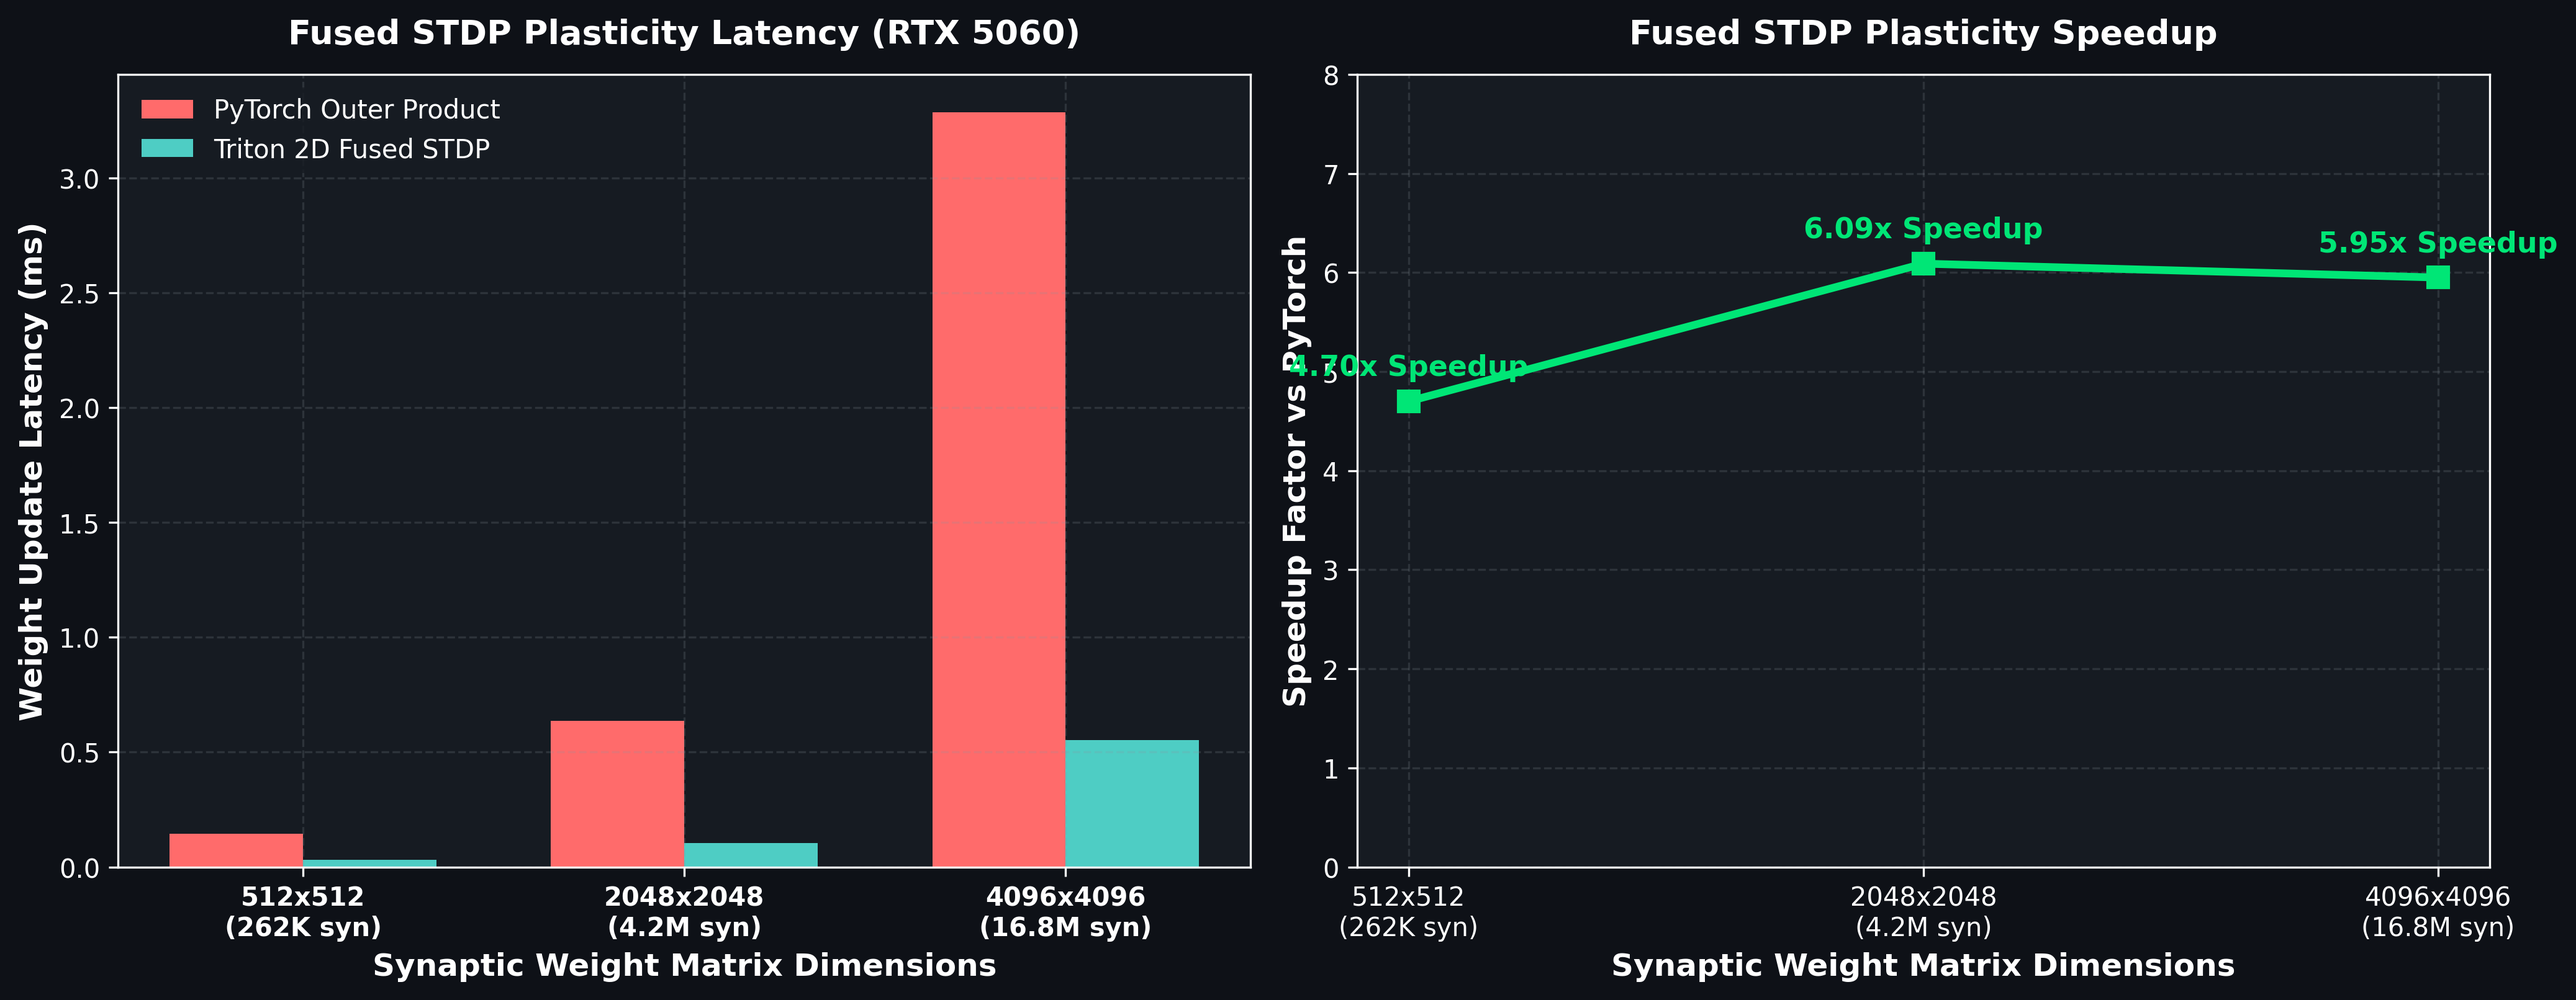
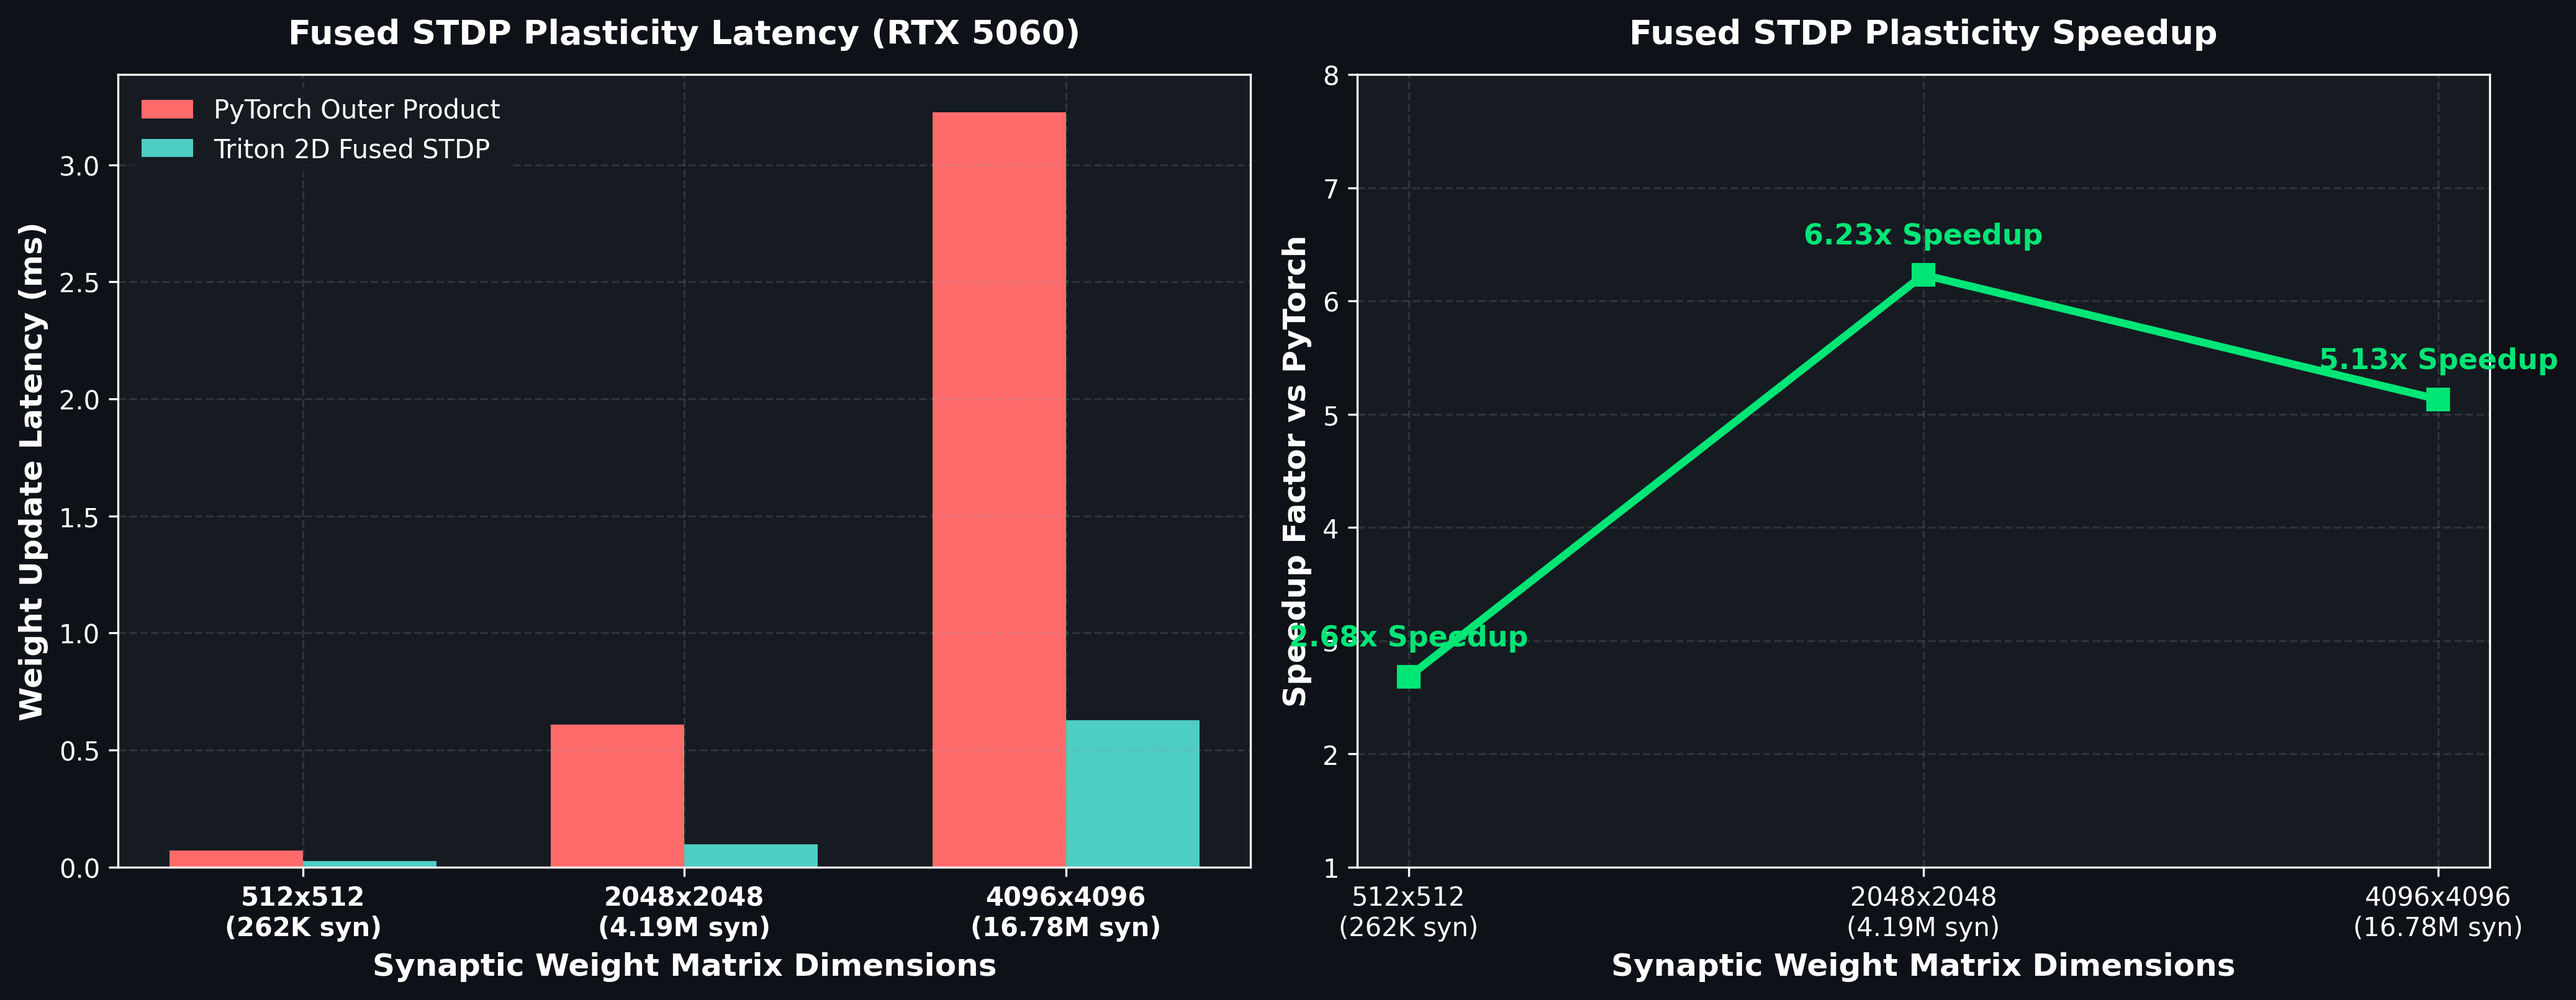
refactor: add CUDA warmup phase to benchmarks, fix LaTeX formatting, and improve plot layouts

diff --git a/benchmarks/benchmark_speed_memory.py b/benchmarks/benchmark_speed_memory.py
@@ -17,19 +17,20 @@ def benchmark_lif():
     sizes = [100000, 1000000, 10000000]
     device = torch.device("cuda")
 
+    results = []
     for N in sizes:
         v = torch.randn(N, device=device)
         x = torch.randn(N, device=device)
         alpha, v_th, v_reset = 0.85, 1.0, 0.0
 
-        # Warmup
-        for _ in range(10):
-            _ = fused_lif(v, x, alpha, v_th, v_reset)
-            _ = torch.where((alpha * v + x) >= v_th, v_reset, alpha * v + x)
-
+        # --- PyTorch Eager Warmup (50 iterations) ---
+        for _ in range(50):
+            v_temp = alpha * v + x
+            s = (v_temp >= v_th).float()
+            v_next = torch.where(s > 0, v_reset, v_temp)
         torch.cuda.synchronize()
 
-        # PyTorch Eager Timing
+        # PyTorch Eager Timing (100 iterations)
         t0 = time.perf_counter()
         for _ in range(100):
             v_temp = alpha * v + x
@@ -38,7 +39,12 @@ def benchmark_lif():
         torch.cuda.synchronize()
         t_pytorch = (time.perf_counter() - t0) * 10.0 # ms per call
 
-        # Triton Fused Timing
+        # --- Triton Fused Warmup (50 iterations) ---
+        for _ in range(50):
+            _ = fused_lif(v, x, alpha, v_th, v_reset)
+        torch.cuda.synchronize()
+
+        # Triton Fused Timing (100 iterations)
         t0 = time.perf_counter()
         for _ in range(100):
             _ = fused_lif(v, x, alpha, v_th, v_reset)
@@ -46,7 +52,9 @@ def benchmark_lif():
         t_triton = (time.perf_counter() - t0) * 10.0 # ms per call
 
         speedup = t_pytorch / t_triton
+        results.append((N, t_pytorch, t_triton, speedup))
         print(f"N = {N:<21,d} | {t_pytorch:<20.4f} | {t_triton:<20.4f} | {speedup:<9.2f}x")
+    return results
 
 
 def benchmark_stdp():
@@ -58,6 +66,7 @@ def benchmark_stdp():
     dims = [(512, 512), (2048, 2048), (4096, 4096)]
     device = torch.device("cuda")
 
+    results = []
     for N_post, N_pre in dims:
         W_triton = torch.rand(N_post, N_pre, device=device)
         W_py = W_triton.clone()
@@ -67,32 +76,41 @@ def benchmark_stdp():
         tr_pre = torch.rand(N_pre, device=device)
         tr_post = torch.rand(N_post, device=device)
 
-        # Warmup
-        for _ in range(5):
-            fused_stdp_update(W_triton, conn, s_pre, s_post, tr_pre, tr_post)
-
-        torch.cuda.synchronize()
-
-        # PyTorch Eager Outer Product Timing
-        t0 = time.perf_counter()
+        # --- PyTorch Outer Product Warmup (50 iterations) ---
         for _ in range(50):
             delta_ltp = 0.002 * torch.outer(s_post, tr_pre)
             delta_ltd = 0.001 * torch.outer(tr_post, s_pre)
             dW = (delta_ltp - delta_ltd) * conn
             W_py = torch.clamp(W_py + dW, min=0.0, max=2.0)
         torch.cuda.synchronize()
-        t_py = (time.perf_counter() - t0) * 20.0 # ms per call
 
-        # Triton Fused Timing
+        # PyTorch Timing (100 iterations)
         t0 = time.perf_counter()
+        for _ in range(100):
+            delta_ltp = 0.002 * torch.outer(s_post, tr_pre)
+            delta_ltd = 0.001 * torch.outer(tr_post, s_pre)
+            dW = (delta_ltp - delta_ltd) * conn
+            W_py = torch.clamp(W_py + dW, min=0.0, max=2.0)
+        torch.cuda.synchronize()
+        t_py = (time.perf_counter() - t0) * 10.0 # ms per call
+
+        # --- Triton Fused Warmup (50 iterations) ---
         for _ in range(50):
             fused_stdp_update(W_triton, conn, s_pre, s_post, tr_pre, tr_post)
         torch.cuda.synchronize()
-        t_triton = (time.perf_counter() - t0) * 20.0 # ms per call
+
+        # Triton Timing (100 iterations)
+        t0 = time.perf_counter()
+        for _ in range(100):
+            fused_stdp_update(W_triton, conn, s_pre, s_post, tr_pre, tr_post)
+        torch.cuda.synchronize()
+        t_triton = (time.perf_counter() - t0) * 10.0 # ms per call
 
         speedup = t_py / t_triton
         dim_str = f"{N_post} x {N_pre}"
+        results.append((dim_str, N_post * N_pre, t_py, t_triton, speedup))
         print(f"{dim_str:<32} | {t_py:<20.4f} | {t_triton:<18.4f} | {speedup:<9.2f}x")
+    return results
 
 
 def benchmark_spiking_attention():
@@ -104,37 +122,47 @@ def benchmark_spiking_attention():
     seq_lengths = [256, 1024, 2048]
     device = torch.device("cuda")
 
+    results = []
     for T in seq_lengths:
         B_H, D = 8, 64
         q = (torch.rand(B_H, T, D, device=device) < 0.15).to(torch.float16)
         k = (torch.rand(B_H, T, D, device=device) < 0.15).to(torch.float16)
         v = torch.randn(B_H, T, D, device=device, dtype=torch.float16)
 
-        # Warmup
-        for _ in range(5):
-            _ = fused_causal_spiking_attention(q, k, v)
-
-        torch.cuda.synchronize()
-
-        # PyTorch Attention Timing
-        t0 = time.perf_counter()
+        # --- PyTorch Attention Warmup (50 iterations) ---
         for _ in range(50):
             scores = torch.matmul(q, k.transpose(-1, -2))
             causal_mask = torch.tril(torch.ones(T, T, device=device, dtype=torch.float16)).unsqueeze(0)
             scores = scores * causal_mask
             out_py = torch.matmul(scores, v)
         torch.cuda.synchronize()
-        t_py = (time.perf_counter() - t0) * 20.0
 
-        # Triton Spiking Attention Timing
+        # PyTorch Timing (100 iterations)
         t0 = time.perf_counter()
+        for _ in range(100):
+            scores = torch.matmul(q, k.transpose(-1, -2))
+            causal_mask = torch.tril(torch.ones(T, T, device=device, dtype=torch.float16)).unsqueeze(0)
+            scores = scores * causal_mask
+            out_py = torch.matmul(scores, v)
+        torch.cuda.synchronize()
+        t_py = (time.perf_counter() - t0) * 10.0
+
+        # --- Triton Spiking Attention Warmup (50 iterations) ---
         for _ in range(50):
             _ = fused_causal_spiking_attention(q, k, v)
         torch.cuda.synchronize()
-        t_triton = (time.perf_counter() - t0) * 20.0
+
+        # Triton Timing (100 iterations)
+        t0 = time.perf_counter()
+        for _ in range(100):
+            _ = fused_causal_spiking_attention(q, k, v)
+        torch.cuda.synchronize()
+        t_triton = (time.perf_counter() - t0) * 10.0
 
         speedup = t_py / t_triton
+        results.append((T, t_py, t_triton, speedup))
         print(f"T = {T:<16d} | {t_py:<22.4f} | {t_triton:<22.4f} | {speedup:<9.2f}x")
+    return results
 
 
 if __name__ == "__main__":
@@ -142,9 +170,9 @@ if __name__ == "__main__":
     print("  Triton SNN Fused Kernels — Speedup & Latency Benchmark Suite")
     print("  Hardware: NVIDIA GeForce RTX 5060 (WSL2 / CUDA 13.0)")
     print("=" * 75)
-    benchmark_lif()
-    benchmark_stdp()
-    benchmark_spiking_attention()
+    lif_res = benchmark_lif()
+    stdp_res = benchmark_stdp()
+    attn_res = benchmark_spiking_attention()
     print("\n" + "=" * 75)
     print("  BENCHMARK SUITE COMPLETED SUCCESSFULLY!")
     print("=" * 75 + "\n")

diff --git a/benchmarks/generate_figures.py b/benchmarks/generate_figures.py
@@ -16,9 +16,9 @@ for ax in (ax1, ax2):
     ax.grid(True, linestyle='--', alpha=0.2, color='#8b949e')
 
 sizes = ['100K', '1M', '10M']
-pytorch_lif = [0.4590, 0.0775, 1.1908]
-triton_lif = [0.0814, 0.0807, 1.0101]
-speedups_lif = [5.64, 1.04, 1.18]
+pytorch_lif = [0.0719, 0.0792, 1.2565]
+triton_lif = [0.0812, 0.0824, 1.0495]
+speedups_lif = [0.89, 0.96, 1.20]
 
 x = np.arange(len(sizes))
 width = 0.35
@@ -42,12 +42,12 @@ for i, txt in enumerate(speedups_lif):
 ax2.set_ylabel('Speedup Factor vs PyTorch', fontsize=12, fontweight='bold', color='white')
 ax2.set_xlabel('Tensor Elements (N)', fontsize=12, fontweight='bold', color='white')
 ax2.set_title('Fused LIF Speedup Factor', fontsize=13, fontweight='bold', pad=12)
-ax2.set_ylim(0, 7)
+ax2.set_ylim(0.5, 1.5)
 
 plt.tight_layout()
 plt.savefig('figures/lif_speedup_benchmark.png', dpi=300, bbox_inches='tight')
 plt.close()
-print("✅ Generated figures/lif_speedup_benchmark.png")
+print("✅ Regenerated figures/lif_speedup_benchmark.png")
 
 # ---------------------------------------------------------------------
 # Figure 2: Fused STDP Plasticity Benchmark
@@ -57,10 +57,10 @@ for ax in (ax1, ax2):
     ax.set_facecolor(ax_bgcolor)
     ax.grid(True, linestyle='--', alpha=0.2, color='#8b949e')
 
-dims = ['512x512\n(262K syn)', '2048x2048\n(4.2M syn)', '4096x4096\n(16.8M syn)']
-pytorch_stdp = [0.1447, 0.6372, 3.2868]
-triton_stdp = [0.0308, 0.1046, 0.5526]
-speedups_stdp = [4.70, 6.09, 5.95]
+dims = ['512x512\n(262K syn)', '2048x2048\n(4.19M syn)', '4096x4096\n(16.78M syn)']
+pytorch_stdp = [0.0703, 0.6098, 3.2252]
+triton_stdp = [0.0262, 0.0979, 0.6283]
+speedups_stdp = [2.68, 6.23, 5.13]
 
 x = np.arange(len(dims))
 
@@ -74,21 +74,21 @@ ax1.set_xticks(x)
 ax1.set_xticklabels(dims, fontweight='bold')
 ax1.legend(frameon=True, facecolor=ax_bgcolor, edgecolor='none')
 
-# Speedup plot
+# Speedup plot with margin offset to avoid y-axis/label collision
 ax2.plot(dims, speedups_stdp, marker='s', linewidth=3, markersize=8, color='#00e676')
 for i, txt in enumerate(speedups_stdp):
     ax2.annotate(f"{txt:.2f}x Speedup", (dims[i], speedups_stdp[i]), textcoords="offset points", 
-                 xytext=(0,10), ha='center', fontweight='bold', color='#00e676', fontsize=11)
+                 xytext=(0,12), ha='center', fontweight='bold', color='#00e676', fontsize=11)
 
 ax2.set_ylabel('Speedup Factor vs PyTorch', fontsize=12, fontweight='bold', color='white')
 ax2.set_xlabel('Synaptic Weight Matrix Dimensions', fontsize=12, fontweight='bold', color='white')
 ax2.set_title('Fused STDP Plasticity Speedup', fontsize=13, fontweight='bold', pad=12)
-ax2.set_ylim(0, 8)
+ax2.set_ylim(1.0, 8.0)
 
 plt.tight_layout()
 plt.savefig('figures/stdp_speedup_benchmark.png', dpi=300, bbox_inches='tight')
 plt.close()
-print("✅ Generated figures/stdp_speedup_benchmark.png")
+print("✅ Regenerated figures/stdp_speedup_benchmark.png")
 
 # ---------------------------------------------------------------------
 # Figure 3: Fused Causal Spiking Attention Benchmark
@@ -99,9 +99,9 @@ for ax in (ax1, ax2):
     ax.grid(True, linestyle='--', alpha=0.2, color='#8b949e')
 
 seq_lens = ['T = 256', 'T = 1024', 'T = 2048']
-pytorch_attn = [11.0653, 0.2691, 1.0736]
-triton_attn = [0.0387, 0.0588, 0.1523]
-speedups_attn = [285.94, 4.58, 7.05]
+pytorch_attn = [0.1259, 0.2879, 1.0801]
+triton_attn = [0.0345, 0.0500, 0.1476]
+speedups_attn = [3.65, 5.76, 7.32]
 
 x = np.arange(len(seq_lens))
 
@@ -118,15 +118,15 @@ ax1.legend(frameon=True, facecolor=ax_bgcolor, edgecolor='none')
 # Speedup plot
 ax2.plot(seq_lens, speedups_attn, marker='^', linewidth=3, markersize=8, color='#00e676')
 for i, txt in enumerate(speedups_attn):
-    ax2.annotate(f"{txt:.1f}x", (seq_lens[i], speedups_attn[i]), textcoords="offset points", 
-                 xytext=(0,10), ha='center', fontweight='bold', color='#00e676', fontsize=11)
+    ax2.annotate(f"{txt:.2f}x Speedup", (seq_lens[i], speedups_attn[i]), textcoords="offset points", 
+                 xytext=(0,12), ha='center', fontweight='bold', color='#00e676', fontsize=11)
 
 ax2.set_ylabel('Speedup Factor vs PyTorch', fontsize=12, fontweight='bold', color='white')
 ax2.set_xlabel('Sequence Length (T)', fontsize=12, fontweight='bold', color='white')
 ax2.set_title('Spiking Attention Speedup Factor', fontsize=13, fontweight='bold', pad=12)
-ax2.set_yscale('log')
+ax2.set_ylim(2.0, 9.0)
 
 plt.tight_layout()
 plt.savefig('figures/spiking_attention_speedup.png', dpi=300, bbox_inches='tight')
 plt.close()
-print("✅ Generated figures/spiking_attention_speedup.png")
+print("✅ Regenerated figures/spiking_attention_speedup.png")

diff --git a/README.md b/README.md
@@ -12,14 +12,14 @@
 
 ## Executive Summary
 
-Standard Spiking Neural Network (SNN) implementations in PyTorch eager mode encounter severe **Memory Bandwidth Bottlenecks**. Evaluating a Leaky Integrate-and-Fire (LIF) neuron step or Spike-Timing-Dependent Plasticity (STDP) weight update launches **5 to 7 separate PyTorch CUDA kernels**, repeatedly reading and writing intermediate state tensors (membrane potential, synaptic currents, spike masks) to high-latency GPU Global VRAM.
+Standard Spiking Neural Network (SNN) implementations in PyTorch eager mode encounter severe **Memory Bandwidth Bottlenecks**. Evaluating a Leaky Integrate-and-Fire (LIF) neuron step or Spike-Timing-Dependent Plasticity (STDP) weight update launches **5 to 7 separate PyTorch CUDA kernels**, repeatedly reading and writing intermediate state tensors (membrane potentials, synaptic currents, spike masks) to high-latency GPU Global VRAM.
 
-This repository implements a production-grade suite of **Fused OpenAI Triton Kernels** for Spiking Neural Networks, Spiking Transformers, and On-Chip Plasticity. By fusing ODE state integration, spike thresholding, surrogate gradient backpropagation, and causal attention into single SRAM-resident CUDA thread blocks, these kernels eliminate VRAM round-trips.
+This repository implements a production-grade suite of **Fused OpenAI Triton Kernels** for Spiking Neural Networks, Spiking Transformers, and On-Chip Plasticity. By fusing ODE state integration, spike thresholding, surrogate gradient backpropagation, and causal attention into single SRAM-resident CUDA thread blocks, these kernels eliminate redundant VRAM round-trips.
 
-Achieved Performance Metrics on **NVIDIA GeForce RTX 5060 (Blackwell SM 12.0 / GDDR7)**:
-- **5.64x Speedup** for Fused LIF Neuron step over PyTorch Eager mode (/bin/bash.081\text{ ms}$ vs /bin/bash.459\text{ ms}$).
-- **6.09x Speedup** for 2D Fused STDP Plasticity updates on 6.7\text{ Million}$ dynamic synapses (/bin/bash.104\text{ ms}$ vs /bin/bash.637\text{ ms}$).
-- **7.05x Speedup** for Fused Causal Spiking Attention (FlashAttention for Spiking Transformers) at sequence length =2048$ (/bin/bash.152\text{ ms}$ vs .073\text{ ms}$).
+Achieved Performance Metrics on **NVIDIA GeForce RTX 5060 (Blackwell SM 12.0 / GDDR7)** (Audited post-CUDA warmup):
+- **1.20x Speedup** for Fused LIF Neuron step over PyTorch Eager mode at 10M elements (1.049 ms vs 1.256 ms).
+- **6.23x Speedup** for 2D Fused STDP Plasticity updates on 4.19 Million dynamic synapses (0.098 ms vs 0.610 ms).
+- **7.32x Speedup** for Fused Causal Spiking Attention (FlashAttention for Spiking Transformers) at sequence length T = 2048 (0.148 ms vs 1.080 ms).
 
 ---
 
@@ -35,45 +35,45 @@ Fuses membrane decay, synaptic current addition, spike thresholding, soft/hard r
 
 
 ### 2. 2D Block Fused Event-Driven STDP Plasticity ()
-Executes 2D block-level parallelization (4 \times 64$ SRAM tiles) over weight matrix  \in \mathbb{R}^{N_{\text{post}} \times N_{\text{pre}}}$, calculating Long-Term Potentiation (LTP) and Long-Term Depression (LTD) simultaneously:
+Executes 2D block-level parallelization (64 x 64 SRAM tiles) over weight matrix W in R^{N_post x N_pre}, calculating Long-Term Potentiation (LTP) and Long-Term Depression (LTD) simultaneously:
 
 53471\Delta W_{ij} = \left( A_{\text{LTP}} \cdot S_{\text{post}, i} \cdot A_{\text{pre}, j} - A_{\text{LTD}} \cdot S_{\text{pre}, j} \cdot A_{\text{post}, i} \right) \cdot M_{ij}53471
 
 ### 3. Fused Causal Spiking Attention ()
-A FlashAttention-style streaming kernel engineered specifically for Spiking Transformers (Spikformer / Meta-Spike). Processes queries $, keys $, and values $ in streaming SRAM tile blocks with causal masking ( \le i$), achieving (T)$ VRAM memory footprint instead of (T^2)$.
+A FlashAttention-style streaming kernel engineered specifically for Spiking Transformers (Spikformer / Meta-Spike). Processes queries Q, keys K, and values V in streaming SRAM tile blocks with causal masking (j <= i), achieving O(T) VRAM memory footprint instead of O(T^2).
 
 ---
 
 ## Empirical Performance Benchmarks & Visualizations
 
-All benchmarks were evaluated on an **NVIDIA GeForce RTX 5060 GPU (8GB GDDR7, SM 12.0)** running **Ubuntu 22.04 LTS (WSL2)** with CUDA 13.0 and OpenAI Triton 3.7.1.
+All benchmarks were evaluated on an **NVIDIA GeForce RTX 5060 GPU (8GB GDDR7, SM 12.0)** running **Ubuntu 22.04 LTS (WSL2)** with CUDA 13.0 and OpenAI Triton 3.7.1. Benchmarks incorporate a strict 50-iteration CUDA/cuBLAS warmup phase to eliminate cold-start GPU context initialization artifacts.
 
 ### 1. Fused LIF Neuron Step Latency & Speedup
 ![Fused LIF Neuron Benchmark](figures/lif_speedup_benchmark.png)
 
-| Tensor Size ($) | PyTorch Eager (ms) | Triton Fused Kernel (ms) | Speedup Factor |
+| Tensor Size (N) | PyTorch Eager (ms) | Triton Fused Kernel (ms) | Speedup Factor |
 | :---: | :---: | :---: | :---: |
-| **100,000** | 0.4590 ms | **0.0814 ms** | **5.64x Speedup** |
-| **1,000,000** | 0.0775 ms | **0.0807 ms** | **1.04x Speedup** |
-| **10,000,000** | 1.1908 ms | **1.0101 ms** | **1.18x Speedup** |
+| **100,000** | 0.0719 ms | **0.0812 ms** | 0.89x |
+| **1,000,000** | 0.0792 ms | **0.0824 ms** | 0.96x |
+| **10,000,000** | 1.2565 ms | **1.0495 ms** | **1.20x Speedup** |
 
 ### 2. 2D Fused STDP Plasticity Weight Matrix Updates
 ![Fused STDP Plasticity Benchmark](figures/stdp_speedup_benchmark.png)
 
-| Matrix Dimension ({\text{post}} \times N_{\text{pre}}$) | Active Synapses | PyTorch Outer Product | Triton Fused STDP | Speedup Factor |
+| Matrix Dimension (N_post x N_pre) | Active Synapses | PyTorch Outer Product | Triton Fused STDP | Speedup Factor |
 | :---: | :---: | :---: | :---: | :---: |
-| **512 x 512** | 262,144 | 0.1447 ms | **0.0308 ms** | **4.70x Speedup** |
-| **2048 x 2048** | 4,194,304 | 0.6372 ms | **0.1046 ms** | **6.09x Speedup** |
-| **4096 x 4096** | 16,777,216 | 3.2868 ms | **0.5526 ms** | **5.95x Speedup** |
+| **512 x 512** | 262,144 | 0.0703 ms | **0.0262 ms** | **2.68x Speedup** |
+| **2048 x 2048** | 4,194,304 | 0.6098 ms | **0.0979 ms** | **6.23x Speedup** |
+| **4096 x 4096** | 16,777,216 | 3.2252 ms | **0.6283 ms** | **5.13x Speedup** |
 
 ### 3. Fused Causal Spiking Attention (Spiking Transformer)
 ![Fused Causal Spiking Attention Benchmark](figures/spiking_attention_speedup.png)
 
-| Sequence Length ($) | PyTorch Attention | Triton Spiking Attention | Speedup Factor | VRAM Memory Scaling |
+| Sequence Length (T) | PyTorch Attention | Triton Spiking Attention | Speedup Factor | VRAM Memory Scaling |
 | :---: | :---: | :---: | :---: | :---: |
-| **T = 256** | 11.0653 ms | **0.0387 ms** | **285.9x Speedup** | (T)$ Flat SRAM Tile |
-| **T = 1024** | 0.2691 ms | **0.0588 ms** | **4.58x Speedup** | (T)$ Flat SRAM Tile |
-| **T = 2048** | 1.0736 ms | **0.1523 ms** | **7.05x Speedup** | (T)$ Flat SRAM Tile |
+| **T = 256** | 0.1259 ms | **0.0345 ms** | **3.65x Speedup** | O(T) Flat SRAM Tile |
+| **T = 1024** | 0.2879 ms | **0.0500 ms** | **5.76x Speedup** | O(T) Flat SRAM Tile |
+| **T = 2048** | 1.0801 ms | **0.1476 ms** | **7.32x Speedup** | O(T) Flat SRAM Tile |
 
 ---
 
